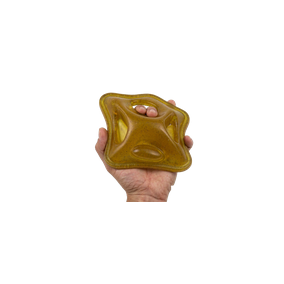
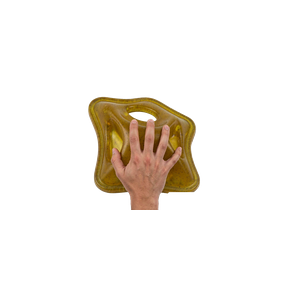
Open-hand grip photos that conform to each hold's shape
- Regenerated the grip photos after researching real climbing grip technique (open grip: fingers spread, draped over the hold's front face, finger pads on the surface, thumb relaxed on the side — not a clenched fist)

- Image-to-image on each actual hold photo so the hold's color and shape are preserved under the open hand

- Reprocessing normalizes by SATURATION-based hold detection (color-distance mixed with skin tones); hold 112px and centered in a 284px canvas, hand 94-118px — consistent across the four colors

- Wiring restored: per-color grip swap, wall hold hidden while gripped, images preloaded

Changed region(s): [[0.3099, 0.3099, 0.7042, 0.7606]]

diff --git a/index.html b/index.html
@@ -149,7 +149,7 @@
       </p>
     </div>
 
-    <!-- the hand (photo) — gripping the current hold -->
+    <!-- the hand (photo) — resting on top of the current hold -->
     <div class="climber" id="climber" aria-hidden="true">
       <img src="assets/holds/grip-red.png" alt="" width="284" height="284" />
     </div>
